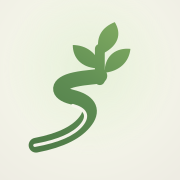
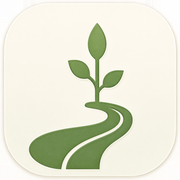
Add files via upload

diff --git a/index.html b/index.html
@@ -1184,3 +1184,105 @@ body{
 <script src="app.js"></script>
 </body>
 </html>
+<style id="v301-iconfix">
+/* V3.0.1 — exact accepted Rootflow botanical mark */
+.rootflow-mark-wrap .rootflow-glyph{
+  display:block!important;
+  width:auto!important;
+  height:84%!important;
+  max-width:72%!important;
+  object-fit:contain!important;
+  overflow:visible!important;
+  user-select:none!important;
+  -webkit-user-drag:none!important;
+}
+.brand-lockup.compact .rootflow-mark-wrap .rootflow-glyph{height:80%!important;max-width:70%!important}
+</style>
+
+<style>
+/* ================= V3.1.0 · final high-resolution Rootflow identity =================
+   Logo asset is generated independently at high resolution, not cropped from a UI mockup. */
+:root{
+  --root-green:#6B9B58;
+  --root-green-deep:#4D7747;
+  --root-graphite:#171A18;
+  --root-ivory:#F4F1E8;
+}
+.family-header .rootflow-mark-wrap{
+  width:66px!important;
+  height:66px!important;
+  padding:0!important;
+  overflow:hidden!important;
+  border-radius:20px!important;
+  background:transparent!important;
+  border:0!important;
+  box-shadow:0 8px 22px rgba(66,78,55,.10)!important;
+}
+.family-header .rootflow-mark-wrap .rootflow-glyph{
+  display:block!important;
+  width:66px!important;
+  height:66px!important;
+  max-width:none!important;
+  object-fit:cover!important;
+  border-radius:20px!important;
+  image-rendering:auto!important;
+}
+.family-header .brand-copy{
+  gap:6px!important;
+  min-width:0!important;
+}
+.family-header .brand-copy b{
+  font-size:30px!important;
+  line-height:.92!important;
+  font-weight:850!important;
+  letter-spacing:-1.65px!important;
+}
+.family-header .brand-copy b>span{color:var(--root-graphite)!important}
+.family-header .brand-copy b>em{color:var(--root-green)!important}
+.family-header .brand-copy .brand-tagline{
+  font-size:8.8px!important;
+  line-height:1!important;
+  font-weight:760!important;
+  letter-spacing:1.64px!important;
+  color:#858A82!important;
+  white-space:nowrap!important;
+}
+@media(max-width:620px){
+  .dashboard-head.family-header{
+    min-height:90px!important;
+    padding:14px 14px!important;
+    border-radius:22px!important;
+  }
+  .family-header .brand-lockup{gap:11px!important}
+  .family-header .rootflow-mark-wrap,
+  .family-header .rootflow-mark-wrap .rootflow-glyph{
+    width:58px!important;
+    height:58px!important;
+    border-radius:17px!important;
+  }
+  .family-header .brand-copy b{
+    font-size:25px!important;
+    letter-spacing:-1.15px!important;
+  }
+  .family-header .brand-copy .brand-tagline{
+    display:block!important;
+    font-size:7.1px!important;
+    letter-spacing:1.12px!important;
+  }
+  .family-header .app-menu-btn{
+    width:48px!important;
+    height:48px!important;
+    border-radius:15px!important;
+  }
+}
+@media(max-width:390px){
+  .family-header .rootflow-mark-wrap,
+  .family-header .rootflow-mark-wrap .rootflow-glyph{
+    width:52px!important;
+    height:52px!important;
+    border-radius:15px!important;
+  }
+  .family-header .brand-copy b{font-size:22px!important}
+  .family-header .brand-copy .brand-tagline{font-size:6.2px!important;letter-spacing:.88px!important}
+}
+</style>

diff --git a/app.js b/app.js
@@ -179,32 +179,12 @@
 
   function RootflowGlyph(props) {
     var size = props && props.size || 52;
-    return h('svg', {
-      className: 'rootflow-glyph', width: size, height: size, viewBox: '0 0 128 128',
-      role: 'img', 'aria-label': 'Rootflow mark', preserveAspectRatio: 'xMidYMid meet'
-    },
-      h('defs', null,
-        h('linearGradient', { id: 'rootflow-family-green', x1: '25', y1: '106', x2: '86', y2: '24', gradientUnits: 'userSpaceOnUse' },
-          h('stop', { offset: '0', stopColor: '#4F7B48' }),
-          h('stop', { offset: '.55', stopColor: '#608E54' }),
-          h('stop', { offset: '1', stopColor: '#7BA65F' }))),
-      h('path', {
-        d: 'M18 106C37 102 48 96 54 88C60 80 55 74 43 71C31 68 31 61 45 58C54 56 62 56 64 55',
-        fill: 'none', stroke: 'url(#rootflow-family-green)', strokeWidth: 12,
-        strokeLinecap: 'round', strokeLinejoin: 'round'
-      }),
-      h('path', {
-        d: 'M17 106C34 103 45 98 51 91C57 84 54 79 44 76',
-        fill: 'none', stroke: '#F7F5EC', strokeWidth: 2.9,
-        strokeLinecap: 'round', opacity: .95
-      }),
-      h('path', {
-        d: 'M64 59V30', fill: 'none', stroke: 'url(#rootflow-family-green)',
-        strokeWidth: 8, strokeLinecap: 'round'
-      }),
-      h('path', { d: 'M60 48C49 47 42 40 42 29C53 29 61 35 64 45C64 47 62 48 60 48Z', fill: 'url(#rootflow-family-green)' }),
-      h('path', { d: 'M68 49C69 38 77 31 89 32C88 43 80 50 69 52C68 52 67 50 68 49Z', fill: 'url(#rootflow-family-green)' }),
-      h('path', { d: 'M63 31C61 20 66 12 76 8C82 18 78 27 67 33C65 34 64 33 63 31Z', fill: 'url(#rootflow-family-green)' }));
+    return h('img', {
+      className: 'rootflow-glyph',
+      src: './brand/rootflow-symbol.png',
+      width: size, height: size,
+      alt: '', 'aria-hidden': 'true', draggable: false
+    });
   }
 
   function BrandMark(props) {

diff --git a/sw.js b/sw.js
@@ -1,6 +1,6 @@
 /* Rootflow — sw.js
    Cache version phải đổi ở mọi deploy để PWA Home Screen nhận code mới. */
-var CACHE = 'rootflow-v3.0-2026-08-07';
+var CACHE = 'rootflow-v3.1.0-2026-08-07';
 
 var ASSETS = [
   './',
@@ -17,7 +17,7 @@ var ASSETS = [
   './icon-256.png',
   './icon-512.png',
   './icon-1024.png',
-  './icon-master.svg'
+  './brand/rootflow-symbol.png'
 ];
 
 self.addEventListener('install', function (e) {

diff --git a/make_icons.py b/make_icons.py
@@ -1,92 +1,23 @@
 from pathlib import Path
-import cairosvg
+from PIL import Image
 
-OUT = Path(__file__).resolve().parent
-SIZES = [180, 192, 256, 512, 1024]
+ROOT = Path(__file__).resolve().parent
+MASTER = ROOT / 'brand' / 'rootflow-logo-master.png'
+SIZES = (180, 192, 256, 512, 1024)
 
-ICON = r'''<svg xmlns="http://www.w3.org/2000/svg" viewBox="0 0 1024 1024">
-  <defs>
-    <radialGradient id="paper" cx="48%" cy="38%" r="78%">
-      <stop offset="0" stop-color="#F7FAEF"/>
-      <stop offset="0.46" stop-color="#F4F5E9"/>
-      <stop offset="1" stop-color="#EEECE3"/>
-    </radialGradient>
-    <radialGradient id="glow" cx="50%" cy="38%" r="48%">
-      <stop offset="0" stop-color="#DCEACB" stop-opacity=".64"/>
-      <stop offset="1" stop-color="#DCEACB" stop-opacity="0"/>
-    </radialGradient>
-    <linearGradient id="green" x1="255" y1="835" x2="680" y2="190" gradientUnits="userSpaceOnUse">
-      <stop offset="0" stop-color="#4F7B48"/>
-      <stop offset="0.55" stop-color="#608E54"/>
-      <stop offset="1" stop-color="#7BA65F"/>
-    </linearGradient>
-  </defs>
-  <rect width="1024" height="1024" fill="url(#paper)"/>
-  <rect width="1024" height="1024" fill="url(#glow)"/>
-  <!-- flowing path -->
-  <path d="M205 826C352 798 443 749 489 685C535 622 500 574 409 552C320 530 320 476 424 453C493 438 554 439 568 431"
-        fill="none" stroke="url(#green)" stroke-width="84" stroke-linecap="round" stroke-linejoin="round"/>
-  <path d="M198 827C333 803 420 764 464 711C508 658 487 620 414 600"
-        fill="none" stroke="#F6F4EB" stroke-width="18" stroke-linecap="round" opacity=".98"/>
-  <!-- stem -->
-  <path d="M568 456V278" fill="none" stroke="url(#green)" stroke-width="56" stroke-linecap="round"/>
-  <!-- leaves -->
-  <path d="M544 388C466 382 414 332 414 256C492 257 548 301 571 370C575 385 559 390 544 388Z" fill="url(#green)"/>
-  <path d="M596 393C603 316 660 270 742 278C734 355 678 403 602 413C591 414 589 402 596 393Z" fill="url(#green)"/>
-  <path d="M561 285C546 209 581 154 653 126C695 195 670 258 594 300C578 309 567 300 561 285Z" fill="url(#green)"/>
-</svg>'''
+if not MASTER.exists():
+    raise SystemExit(f'Missing master: {MASTER}')
 
-MARK = r'''<svg xmlns="http://www.w3.org/2000/svg" viewBox="0 0 128 128" role="img" aria-labelledby="title desc">
-  <title id="title">Rootflow mark</title>
-  <desc id="desc">A growing sprout rising from a flowing path.</desc>
-  <defs>
-    <linearGradient id="g" x1="25" y1="106" x2="86" y2="24" gradientUnits="userSpaceOnUse">
-      <stop offset="0" stop-color="#4F7B48"/>
-      <stop offset=".55" stop-color="#608E54"/>
-      <stop offset="1" stop-color="#7BA65F"/>
-    </linearGradient>
-  </defs>
-  <path d="M18 106C37 102 48 96 54 88C60 80 55 74 43 71C31 68 31 61 45 58C54 56 62 56 64 55" fill="none" stroke="url(#g)" stroke-width="12" stroke-linecap="round" stroke-linejoin="round"/>
-  <path d="M17 106C34 103 45 98 51 91C57 84 54 79 44 76" fill="none" stroke="#F6F4EB" stroke-width="2.9" stroke-linecap="round" opacity=".98"/>
-  <path d="M64 59V30" fill="none" stroke="url(#g)" stroke-width="8" stroke-linecap="round"/>
-  <path d="M60 48C49 47 42 40 42 29C53 29 61 35 64 45C64 47 62 48 60 48Z" fill="url(#g)"/>
-  <path d="M68 49C69 38 77 31 89 32C88 43 80 50 69 52C68 52 67 50 68 49Z" fill="url(#g)"/>
-  <path d="M63 31C61 20 66 12 76 8C82 18 78 27 67 33C65 34 64 33 63 31Z" fill="url(#g)"/>
-</svg>'''
-
-WORDMARK = r'''<svg xmlns="http://www.w3.org/2000/svg" viewBox="0 0 720 180" role="img" aria-labelledby="title desc">
-  <title id="title">ROOTFLOW</title>
-  <desc id="desc">Rootflow wordmark. ROOT is graphite and FLOW is botanical green.</desc>
-  <defs>
-    <linearGradient id="g" x1="25" y1="106" x2="86" y2="24" gradientUnits="userSpaceOnUse">
-      <stop offset="0" stop-color="#4F7B48"/><stop offset=".55" stop-color="#608E54"/><stop offset="1" stop-color="#7BA65F"/>
-    </linearGradient>
-    <radialGradient id="tile" cx="48%" cy="38%" r="76%">
-      <stop offset="0" stop-color="#F3F8E8"/><stop offset="1" stop-color="#F5F3EA"/>
-    </radialGradient>
-  </defs>
-  <rect x="8" y="8" width="142" height="142" rx="38" fill="url(#tile)"/>
-  <g transform="translate(20 18) scale(.92)">
-    <path d="M18 106C37 102 48 96 54 88C60 80 55 74 43 71C31 68 31 61 45 58C54 56 62 56 64 55" fill="none" stroke="url(#g)" stroke-width="12" stroke-linecap="round" stroke-linejoin="round"/>
-    <path d="M17 106C34 103 45 98 51 91C57 84 54 79 44 76" fill="none" stroke="#F6F4EB" stroke-width="2.9" stroke-linecap="round"/>
-    <path d="M64 59V30" fill="none" stroke="url(#g)" stroke-width="8" stroke-linecap="round"/>
-    <path d="M60 48C49 47 42 40 42 29C53 29 61 35 64 45C64 47 62 48 60 48Z" fill="url(#g)"/>
-    <path d="M68 49C69 38 77 31 89 32C88 43 80 50 69 52C68 52 67 50 68 49Z" fill="url(#g)"/>
-    <path d="M63 31C61 20 66 12 76 8C82 18 78 27 67 33C65 34 64 33 63 31Z" fill="url(#g)"/>
-  </g>
-  <text x="180" y="88" font-family="-apple-system,BlinkMacSystemFont,'Segoe UI',Arial,sans-serif" font-weight="850" font-size="66" letter-spacing="-3" fill="#171A18">ROOT</text>
-  <text x="390" y="88" font-family="-apple-system,BlinkMacSystemFont,'Segoe UI',Arial,sans-serif" font-weight="850" font-size="66" letter-spacing="-3" fill="#6B9B58">FLOW</text>
-  <text x="183" y="128" font-family="-apple-system,BlinkMacSystemFont,'Segoe UI',Arial,sans-serif" font-weight="700" font-size="15" letter-spacing="5" fill="#898D86">SEE WHAT COMES NEXT.</text>
-</svg>'''
-
-(OUT / 'icon-master.svg').write_text(ICON, encoding='utf-8')
-(OUT / 'brand').mkdir(exist_ok=True)
-(OUT / 'brand' / 'rootflow-mark.svg').write_text(MARK, encoding='utf-8')
-(OUT / 'brand' / 'rootflow-wordmark.svg').write_text(WORDMARK, encoding='utf-8')
-
+img = Image.open(MASTER).convert('RGB')
 for size in SIZES:
-    cairosvg.svg2png(bytestring=ICON.encode(), write_to=str(OUT / f'icon-{size}.png'), output_width=size, output_height=size)
+    dst = ROOT / f'icon-{size}.png'
+    img.resize((size, size), Image.Resampling.LANCZOS).save(dst, optimize=True, quality=96)
+    print('wrote', dst.name)
 
-cairosvg.svg2png(bytestring=MARK.encode(), write_to=str(OUT / 'brand' / 'rootflow-mark-1024.png'), output_width=1024, output_height=1024)
-cairosvg.svg2png(bytestring=WORDMARK.encode(), write_to=str(OUT / 'brand' / 'rootflow-wordmark.png'), output_width=1440, output_height=360)
-print('generated', ', '.join(str(x) for x in SIZES))
+runtime = img.resize((512, 512), Image.Resampling.LANCZOS)
+runtime.save(ROOT / 'brand' / 'rootflow-symbol.png', optimize=True, quality=95)
+runtime.save(ROOT / 'brand' / 'rootflow-mark-512.png', optimize=True, quality=95)
+img.resize((1024, 1024), Image.Resampling.LANCZOS).save(
+    ROOT / 'brand' / 'rootflow-mark-1024.png', optimize=True, quality=96
+)
+print('done')

diff --git a/QA_V3.1.md b/QA_V3.1.md
@@ -1,0 +1,24 @@
+# Rootflow V3.1.0 — QA
+
+Release: 2026-08-07
+
+## Scope
+- Final Rootflow sprout + flowing-path identity.
+- Dedicated high-resolution logo master; no UI-mockup crop is used at runtime.
+- Home Screen/PWA icons regenerated directly from the master.
+- Finance data model and business engine unchanged.
+- Rootwork-style natural document scrolling retained.
+
+## Checks
+- JavaScript syntax: PASS (`app.js`, `domain.js`, `store.js`, `selftest.js`, `sw.js`).
+- Rootflow finance self-test: 36/36 PASS.
+- Manifest icon files: PASS for 180/192/256/512/1024.
+- Icon dimensions: PASS.
+- Service-worker pre-cache files: PASS.
+- No stale `icon-master.svg` reference: PASS.
+- Dedicated master exists: `brand/rootflow-logo-master.png` (1254×1254).
+- Runtime header mark: `brand/rootflow-symbol.png` (512×512).
+- Data schema: v4, unchanged.
+
+## Device note
+Safari/Home Screen visual behavior still requires final device inspection after GitHub Pages deploy because iOS PWA caching and browser chrome cannot be fully reproduced in the build container.

diff --git a/CHANGELOG.md b/CHANGELOG.md
@@ -1,3 +1,12 @@
+# V3.1.0 — 2026-08-07
+
+- Rebuilt Rootflow logo from a dedicated 1254×1254 high-resolution master; no mockup crop.
+- Regenerated Home Screen/PWA icons at 180/192/256/512/1024 using Lanczos resampling.
+- Header uses the same exact master-derived mark as the Home Screen icon.
+- Fine-tuned header proportions, wordmark and tagline for mobile.
+- Finance engine, store schema and existing user data remain unchanged.
+- PWA cache bumped to `rootflow-v3.1.0-2026-08-07`.
+
 # Rootflow V3.0 — Root family UI
 
 - Giữ nguyên finance engine, schema v4, store/persistence và dữ liệu người dùng từ V2.9.
